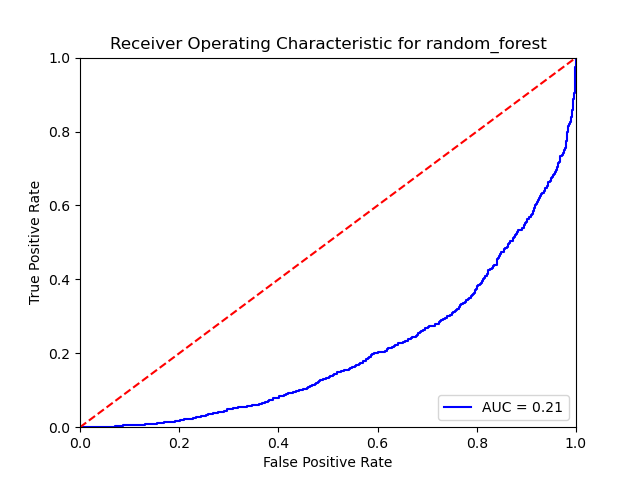
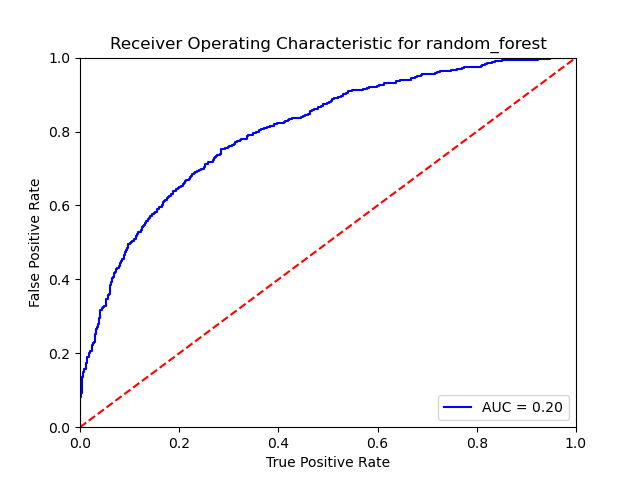
enhancement: adding learning curve to evaluation

diff --git a/utils/classification_stats.py b/utils/classification_stats.py
@@ -1,24 +1,37 @@
 import os.path
 
 from sklearn.metrics import confusion_matrix, classification_report, accuracy_score, roc_auc_score, f1_score, \
-    precision_score, recall_score, roc_curve, auc
+    precision_score, recall_score, roc_curve, auc, ConfusionMatrixDisplay
+from sklearn.model_selection import learning_curve
 from const import project_dir_path
 
 import matplotlib.pyplot as plt
+import numpy as np
 
 
 class ClassificationStatistics:
 
-    def __init__(self, model, X_test, y_actual, y_predicted, y_predicted_proba, averaging='weighted'):
+    def __init__(self, model, model_name, X_train, y_train, X_test, y_actual, y_predicted, y_predicted_proba,
+                 averaging='weighted'):
         self._X_test = X_test
         self._y_actual = y_actual
         self._y_predicted = y_predicted
         self._y_predicted_proba = y_predicted_proba
         self._averaging = averaging
-        self.__model = model
+        self._model = model
+        self._X_train = X_train
+        self._y_train = y_train
+        self._model_name = model_name
 
     def get_confusion_matrix(self):
-        return confusion_matrix(self._y_actual, self._y_predicted)
+        cm = confusion_matrix(self._y_actual, self._y_predicted)
+        disp = ConfusionMatrixDisplay(confusion_matrix=cm, display_labels=self._model.get_model().classes_)
+        disp.plot()
+        if not os.path.exists(project_dir_path + '/results/' + self._model_name):
+            os.mkdir(project_dir_path + '/results/' + self._model_name)
+        plt.savefig(project_dir_path + '/results/' + self._model_name + '/confusion_matrix.png')
+        plt.close()
+        return cm
 
     def get_classification_report(self):
         return classification_report(self._y_actual, self._y_predicted)
@@ -41,8 +54,8 @@ class ClassificationStatistics:
     def get_recall_score(self):
         return recall_score(self._y_actual, self._y_predicted, average=self._averaging)
 
-    def evaluate_model(self):
-        print('Results for Model: ', self.__model)
+    def evaluate_model(self, extract_learning_curve=True):
+        print('Results for Model: ', self._model_name)
         print('Confusion Matrix: \n', self.get_confusion_matrix())
         print('Classification Report: \n', self.get_classification_report())
         print('Accuracy Score: ', self.get_accuracy_score())
@@ -50,16 +63,44 @@ class ClassificationStatistics:
         print('F1 Score: ', self.get_f1_score())
         print('Precision Score: ', self.get_precision_score())
         print('Recall Score: ', self.get_recall_score())
+        if extract_learning_curve:
+            self.save_learning_curve()
 
     def save_roc_curve(self, fpr, tpr, roc_auc):
-        plt.title('Receiver Operating Characteristic for ' + self.__model)
-        plt.plot(fpr, tpr, 'b', label='AUC = %0.2f' % roc_auc)
+        plt.title('Receiver Operating Characteristic for ' + self._model_name)
+        plt.plot(tpr, fpr, 'b', label='AUC = %0.2f' % roc_auc)
         plt.legend(loc='lower right')
         plt.plot([0, 1], [0, 1], 'r--')
         plt.xlim([0, 1])
         plt.ylim([0, 1])
-        plt.ylabel('True Positive Rate')
-        plt.xlabel('False Positive Rate')
-        if not os.path.exists(project_dir_path + '/results/' + self.__model):
-            os.mkdir(project_dir_path + '/results/' + self.__model)
-        plt.savefig(project_dir_path + '/results/' + self.__model + '/roc_curve.png')
+        plt.ylabel('False Positive Rate')
+        plt.xlabel('True Positive Rate')
+        if not os.path.exists(project_dir_path + '/results/' + self._model_name):
+            os.mkdir(project_dir_path + '/results/' + self._model_name)
+        plt.savefig(project_dir_path + '/results/' + self._model_name + '/roc_curve.png')
+        plt.close()
+
+    def save_learning_curve(self):
+        print('Saving learning curve')
+        model = self._model.get_model()
+        train_sizes, train_scores, val_scores = learning_curve(
+            model, self._X_train, self._y_train, cv=10, n_jobs=-1,
+            train_sizes=np.linspace(.1, 1.0, 5),
+            scoring='accuracy'
+        )
+        train_mean = np.mean(train_scores, axis=1) * 100
+        train_std = np.std(train_scores, axis=1) * 100
+        val_mean = np.mean(val_scores, axis=1) * 100
+        val_std = np.std(val_scores, axis=1) * 100
+        plt.fill_between(train_sizes, train_mean - train_std, train_mean + train_std, alpha=0.1, color='r')
+        plt.fill_between(train_sizes, val_mean - val_std, val_mean + val_std, alpha=0.1, color='g')
+        plt.plot(train_sizes, train_mean, 'o-', color='r', label='Training accuracy')
+        plt.plot(train_sizes, val_mean, 'o-', color='g', label='Cross-validation accuracy')
+        plt.title('Learning Curve for ' + self._model_name)
+        plt.xlabel('Training examples')
+        plt.ylabel('Accuracy (%)')
+        plt.legend(loc='best')
+        if not os.path.exists(project_dir_path + '/results/' + self._model_name):
+            os.mkdir(project_dir_path + '/results/' + self._model_name)
+        plt.savefig(project_dir_path + '/results/' + self._model_name + '/learning_curve.png')
+        plt.close()

diff --git a/utils/train.py b/utils/train.py
@@ -56,8 +56,8 @@ def train(model_name, do_pca=False, tune=False, select_features=True):
     print('Evaluating Model')
     y_hat_test = model.predict(x_test)
     y_hat_test_proba = model.predict_proba(x_test)
-    evaluator = ClassificationStatistics(model_name, x_test, y_test, y_hat_test, y_hat_test_proba)
-    evaluator.evaluate_model()
+    evaluator = ClassificationStatistics(model, model_name, x_train, y_train, x_test, y_test, y_hat_test, y_hat_test_proba)
+    evaluator.evaluate_model(extract_learning_curve=True)
 
 
 def load_model(model_name):

diff --git a/model/gradient_boost.py b/model/gradient_boost.py
@@ -9,6 +9,9 @@ class GradientBoost:
     def __init__(self):
         self._model = GradientBoostingClassifier()
 
+    def get_model(self):
+        return self._model
+
     def initialize_model_hyperparameters(self, **hyperparameters):
         self._model = GradientBoostingClassifier(**hyperparameters)
 

diff --git a/model/random_forest.py b/model/random_forest.py
@@ -11,6 +11,9 @@ class RandomForest:
     def __init__(self):
         self._model = RandomForestClassifier()
 
+    def get_model(self):
+        return self._model
+
     def initialize_model_hyperparameters(self, **hyperparameters):
         self._model = RandomForestClassifier(**hyperparameters)
 
